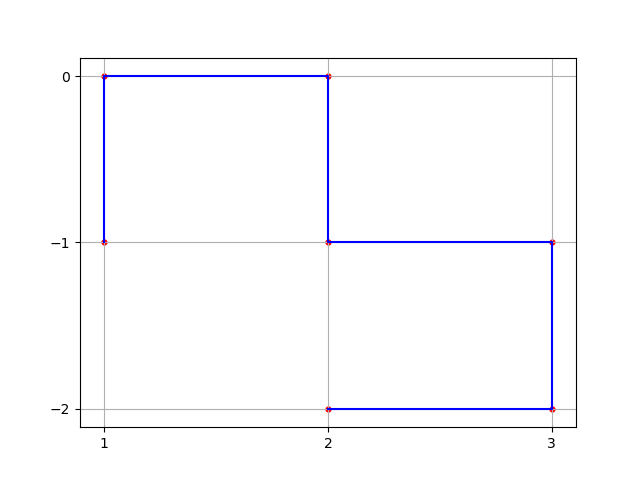
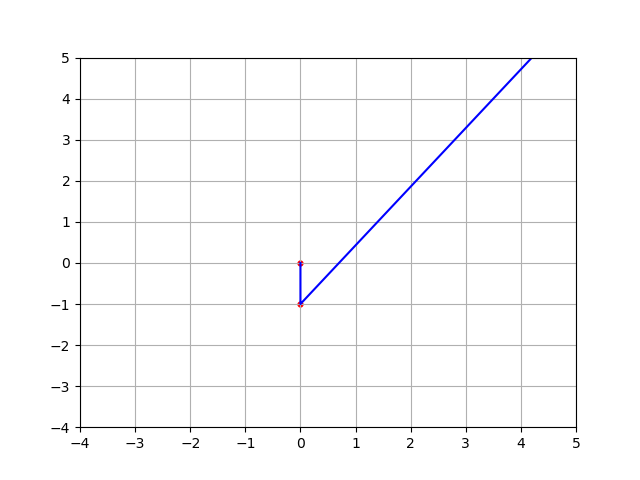
uncommented path

diff --git a/eiwitten/path.py b/eiwitten/path.py
@@ -4,15 +4,16 @@ import matplotlib.pyplot as plt
 import matplotlib.ticker as ticker
 from field import Field
 from protein import Protein
+import math
 
 class Path(object):
     """Visualises the structure of optimal protein fold"""
-    def __init__(self, protein, axislength, coordinates):
+    def __init__(self, protein, protein_length, coordinates):
         self.protein = protein
-        self.axislength = axislength
+        self.axislength = len(self.protein)
         self.datapoints = coordinates
 
-    def getMarker():
+    def markerColor(self):
         """Returns a marker with color based on the aminoacid"""
         return 'red'
 
@@ -24,34 +25,33 @@ class Path(object):
         print(self.protein)
         print('this is the axislength')
         print(self.axislength)
-        plot figure with size 1:1 with 100 dots per inches
+        # plot figure with size 1:1 with 100 dots per inches
         plt.figure(figsize=(1, 1), dpi=100)
         # handig voor 3D
         fig, ax = plt.subplots()
 
         # use the protein length to plot graph dimensions
-        x_L = self.axislength * -0.5
-        x_R = self.axislength * 0.5
-        y_L = self.axislength * -0.5
-        y_R = self.axislength * 0.5
+        x_L = math.ceil(self.axislength * 2);
+        x_R = math.ceil(self.axislength * 2);
+        y_L = x_L;
+        y_R = x_R;
 
         ax.axis([x_L, x_R, y_L, y_R])
 
-        # place the folding coordinates of the field in a list
+        # place the folding coordinates of the field in a list, starting cnd at protein length
         list_path_data = [
-            (mpath.Path.MOVETO, (0, 0)),
-            (mpath.Path.LINETO, (0, -1)),
+            (mpath.Path.MOVETO, (self.axislength, self.axislength)),
+            (mpath.Path.LINETO, (self.axislength, self.axislength - 1)),
 
             ]
 
         # coordinates of the aminoacids: placeholder testlist
-        # testlist = [(1, -1), (1, 0), (2, 0), (2, -1), (3, -1), (3, -2), (2, -2)]
         testlist = [(1, -1), (1, 0), (2, 0), (2, -1), (3, -1), (3, -2), (2, -2)]
         testdict = {(1, -1): 'H', (1, 0): 'H', (2, 0): 'P', (2, -1): 'H', (3, -1): 'H',\
                     (3, -2): 'H', (2, -2): 'H'}
 
         # place the code + coordinates in the list
-        for i in testlist:
+        for i in self.datapoints:
             list_path_data.extend([(mpath.Path.LINETO, i)])
         print(list_path_data)
 
@@ -66,12 +66,9 @@ class Path(object):
 
         # plot line and markers
         line = ax.plot(x, y, color='blue', linestyle='solid')
-        # marker, = ax.scatter(x, y, marker= 'o', markerfacecolor=self.getMarker()'', markersize=12)
-        marker = ax.scatter(x, y, marker= 'o', c=self.getMarker(), s=12)
-        # import itertools
-        # marker = itertools.cycle((',', '+', '.', 'o', '*'))
-        # for n in y:
-        #     plt.plot(x,n, marker = next(marker), linestyle='')
+        # marker, = ax.scatter(x, y, marker= 'o', markerfacecolor=self.getMarker(), markersize=12)
+
+        marker = ax.scatter(x, y, marker= 'o', c='red', s=12)
 
         # plot a grid for better visualisation
         gridline_space = 1.0

diff --git a/eiwitten/versie0.py b/eiwitten/versie0.py
@@ -2,8 +2,7 @@ from sys import argv
 from protein import Protein
 from option import Option
 from field import Field
-# from path import Path
-# import Tkinter as tk
+from path import Path
 import time
 import random
 import matplotlib.path as mpath
@@ -89,9 +88,9 @@ def main():
     end = time.time()
     print(end - all)
 
-    # # start visualisation
-    # p = Path(protein.sequence, protein.length, field.coordinates)
-    # p.plotFold()
+    # start visualisation
+    p = Path(protein.sequence, protein.length, field.coordinates)
+    p.plotFold()
 
 # checks user input
 def check():

diff --git a/eiwitten/field.py b/eiwitten/field.py
@@ -47,7 +47,7 @@ class Field(object):
                    y = y + new_direction[0]
                    x = x + new_direction[1]
                    self.field[y][x] = aminoacid
-
+                   
                    self.last_step = str(new_direction)
                    # trying out coordinates
                    self.coordinates.append((x, y))
